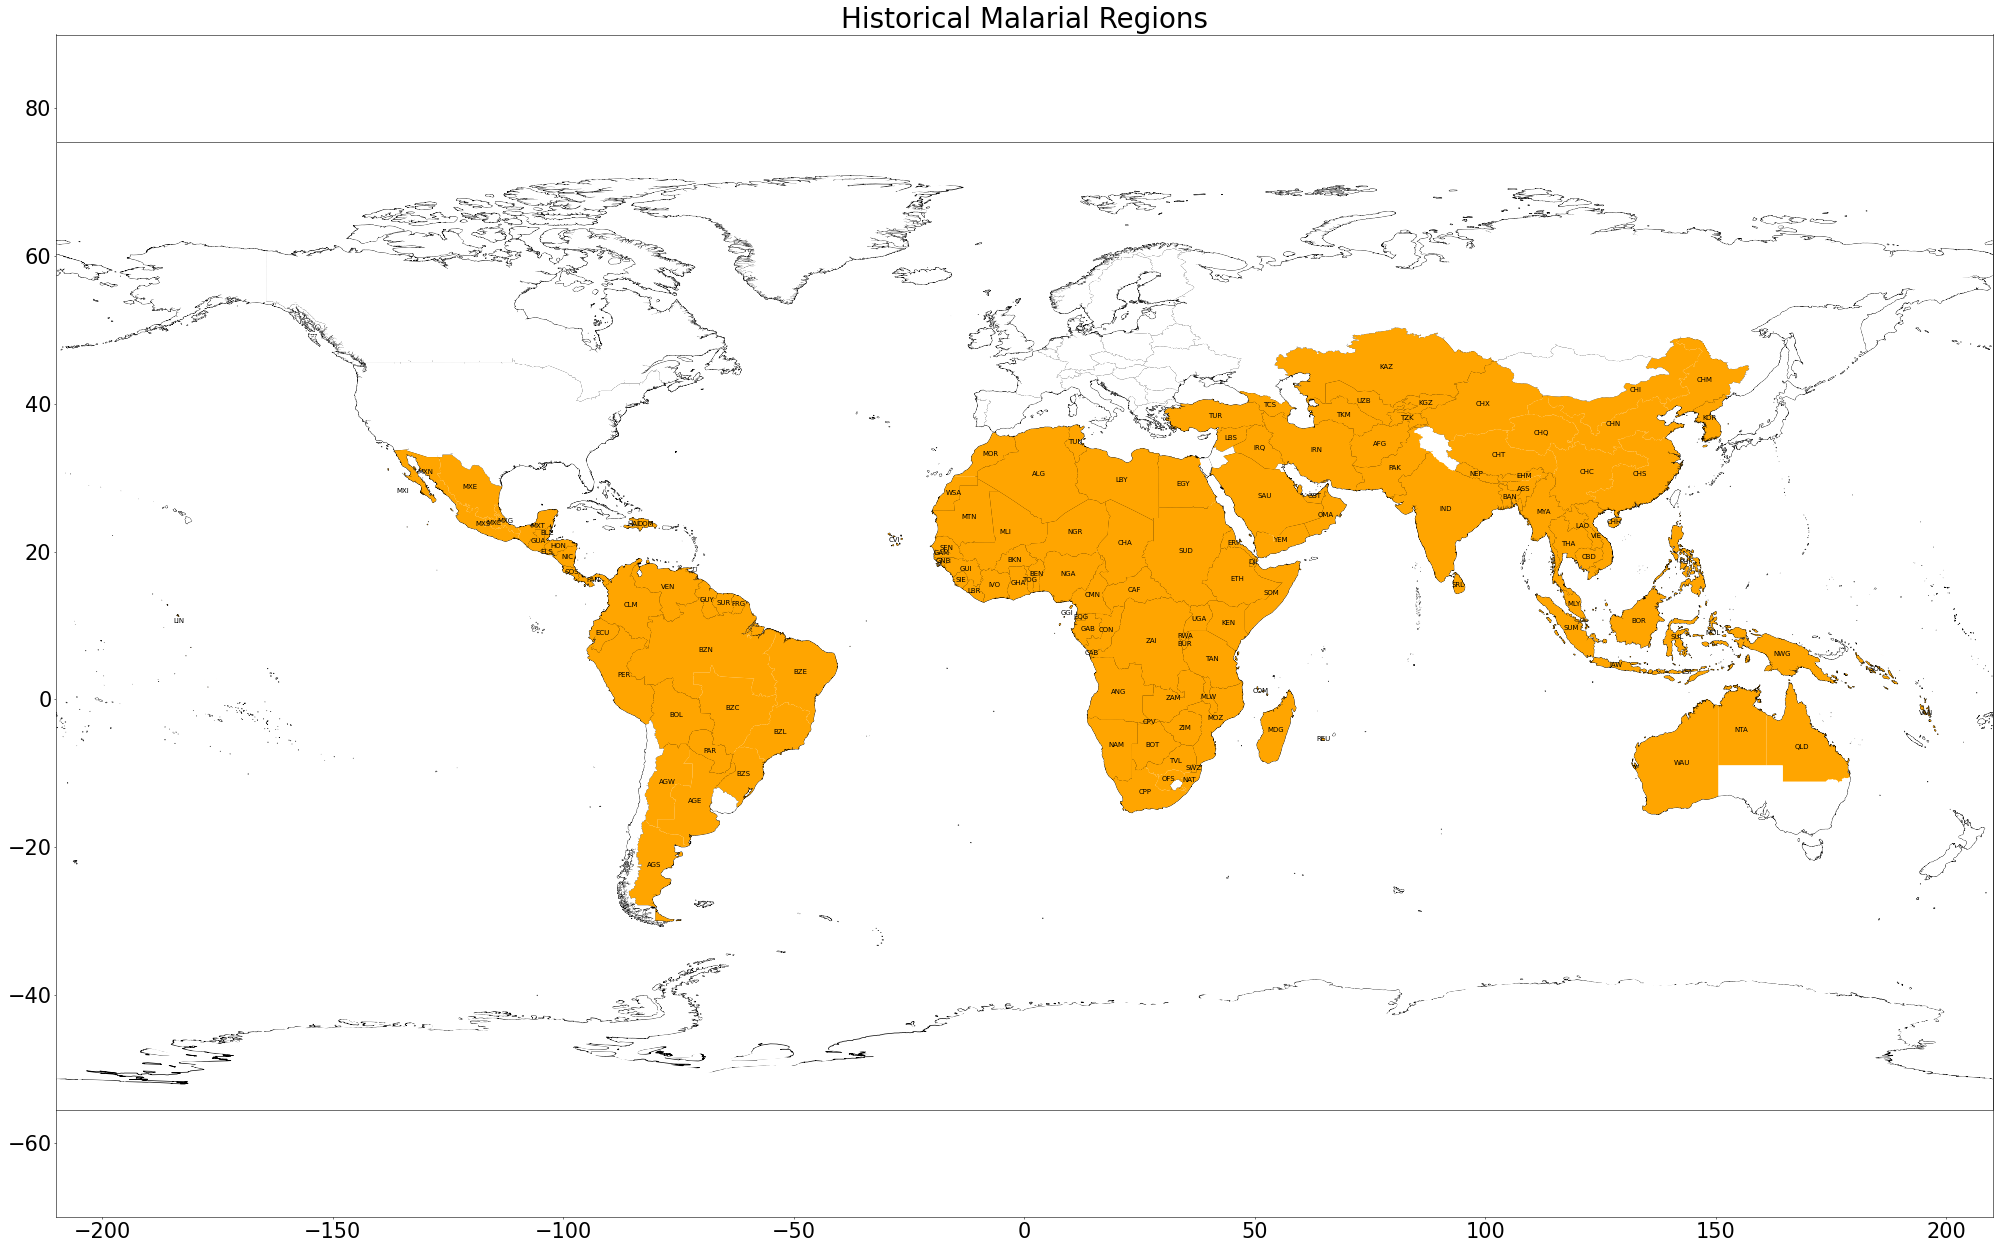
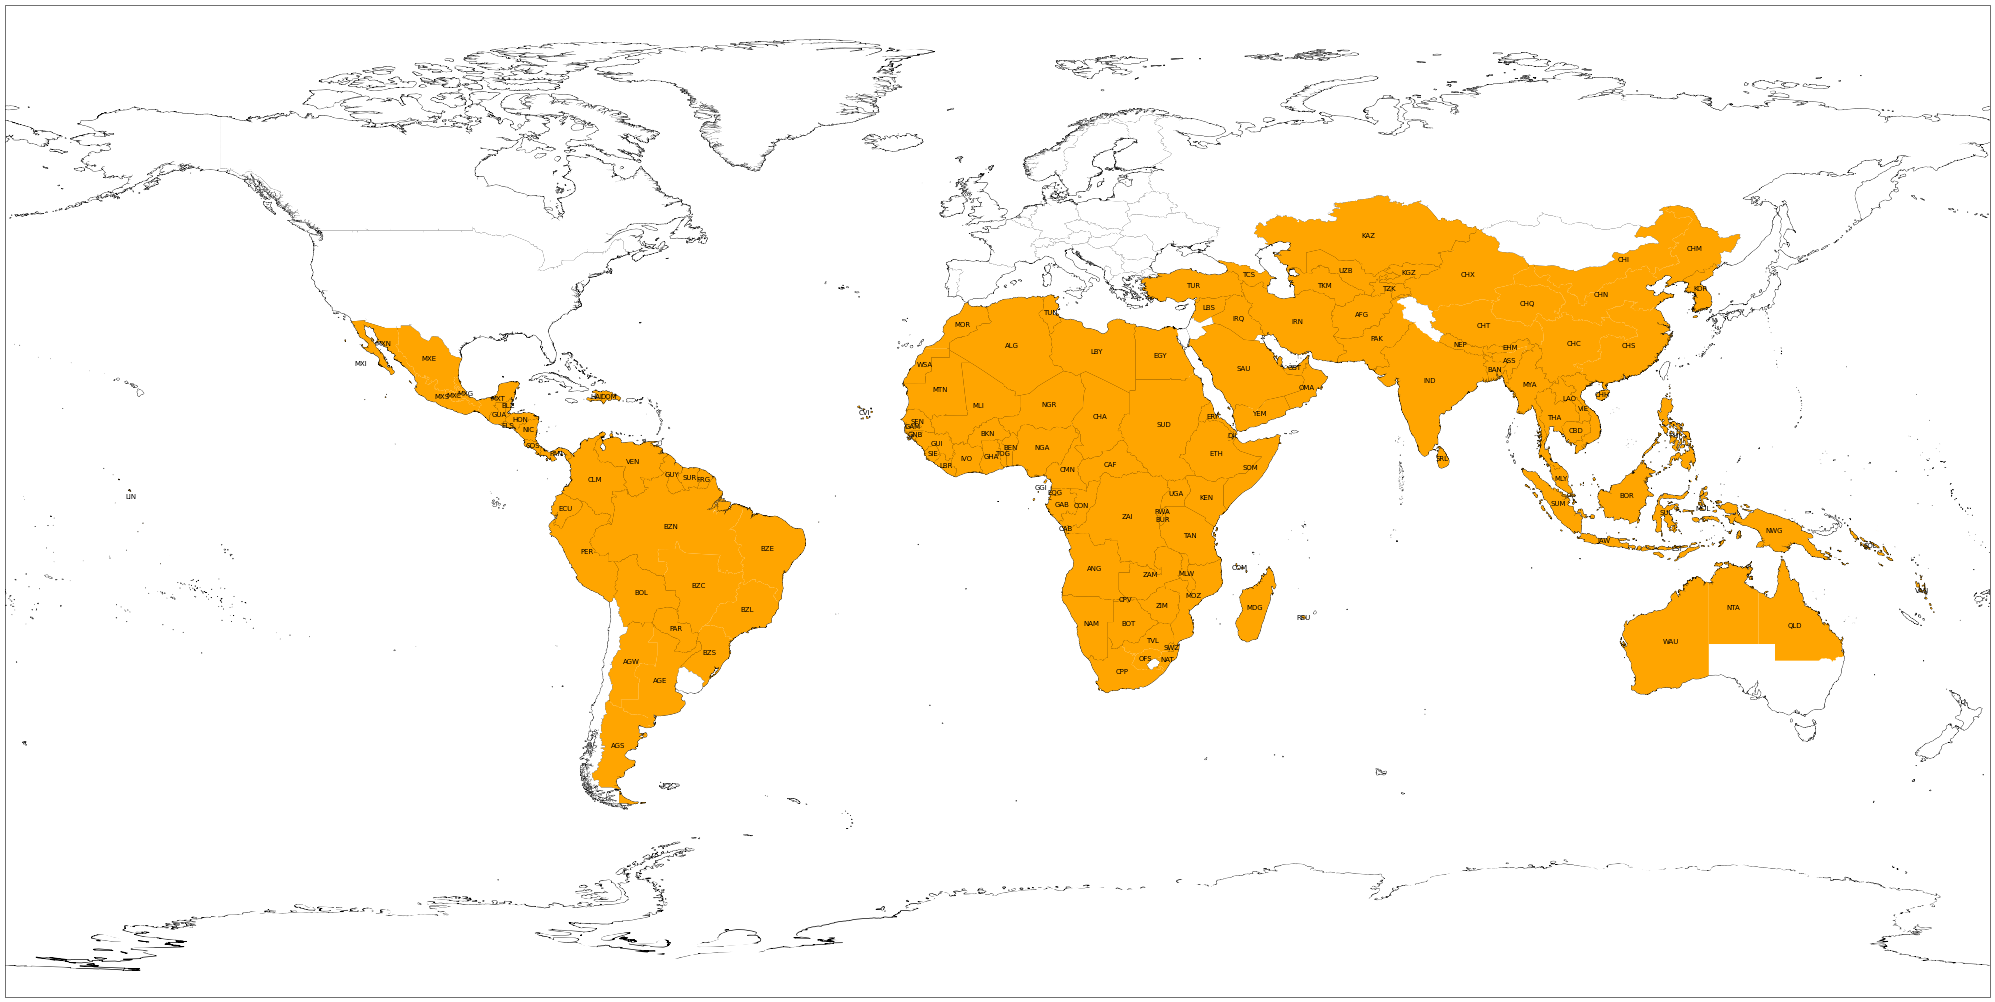
Improve plots and source description

diff --git a/getting_malarial_regions/malarial_countries.py b/getting_malarial_regions/malarial_countries.py
@@ -23,6 +23,7 @@ if not os.path.isdir(_output_path):
 # From https://datacatalog.worldbank.org/search/dataset/0037712
 # Accessed 03/05/2022
 # Any country with any incidence of malaria between 1960 and 2021
+# the indicator is estimated only where malaria transmission occurs
 def print_world_bank_countries():
     wdid = pd.read_csv(os.path.join(data_download, 'WDI_csv/WDIData.csv'))
     malaria_data = wdid[wdid['Indicator Name'] == 'Incidence of malaria (per 1,000 population at risk)']
@@ -118,11 +119,11 @@ def plot_countries(tdwg3_region_codes: List[str], title: str, output_path: str):
     print('plotting countries')
 
     plt.figure(figsize=(40, 25))
-    plt.xlim(-210, 210)
-    plt.ylim(-70, 90)
-    plt.xticks(fontsize=30)
-    plt.yticks(fontsize=30)
-    plt.title(title, fontsize=40)
+    # plt.xlim(-210, 210)
+    # plt.ylim(-70, 90)
+    # plt.xticks(fontsize=30)
+    # plt.yticks(fontsize=30)
+    # plt.title(title, fontsize=40)
     ax = plt.axes(projection=ccrs.PlateCarree())
     ax.coastlines(resolution='10m')
     ax.add_feature(cfeature.BORDERS, linewidth=5)
@@ -153,7 +154,7 @@ def plot_countries(tdwg3_region_codes: List[str], title: str, output_path: str):
     plt.tight_layout()
     # change the fontsize
 
-    plt.savefig(output_path, dpi=50)
+    plt.savefig(output_path, dpi=50,bbox_inches='tight')
 
 
 def get_tdwg3_codes():
